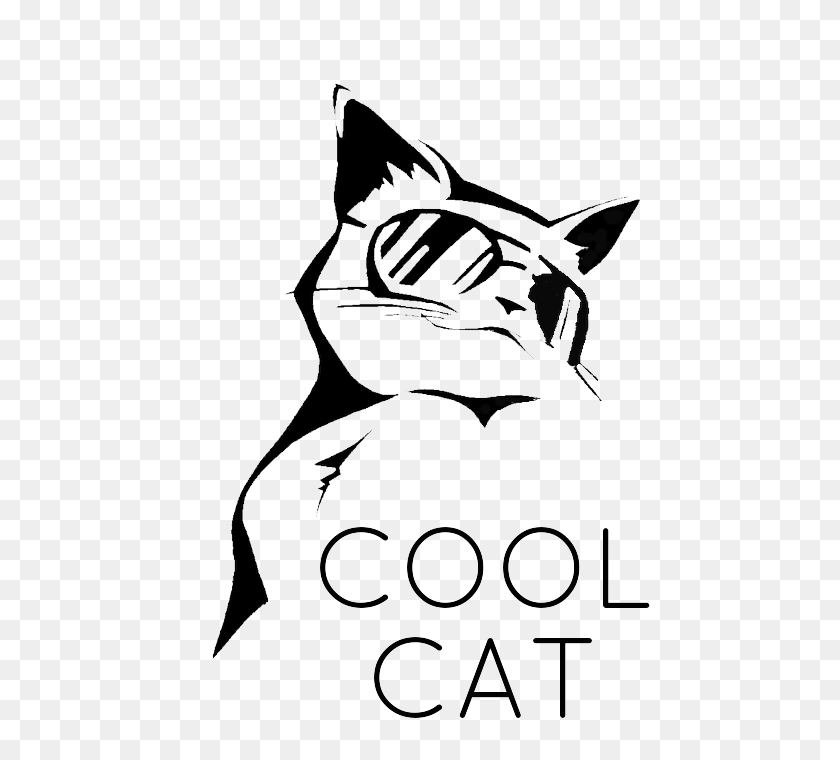
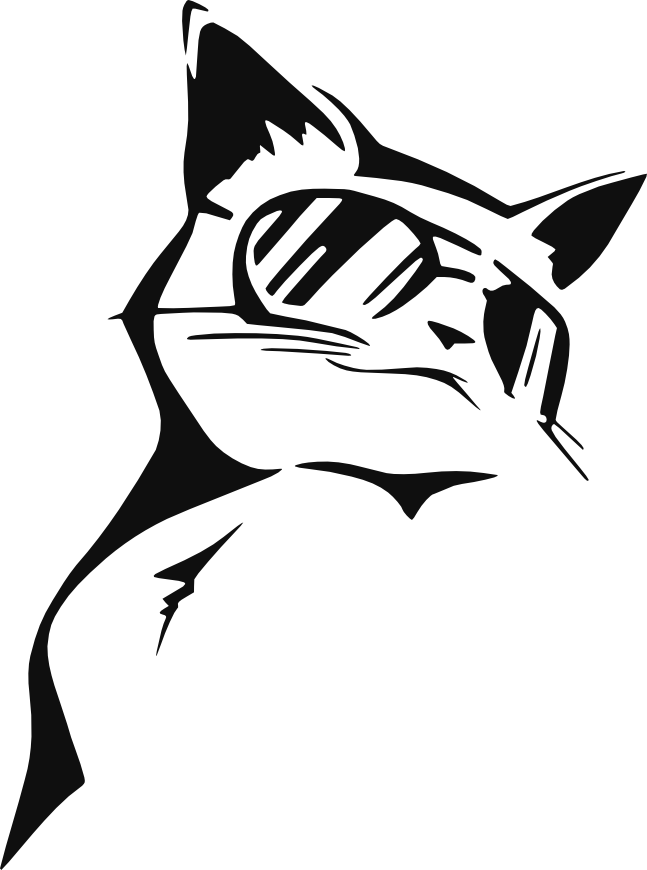
Added Header Image - 1st Column Finalized.

diff --git a/index.html b/index.html
@@ -24,7 +24,7 @@
 				<span class="Button"><b>Join the Cat</b></span>
 			</div>
 			<div class="header-right">
-				<img>Filler Image</img>
+				<img src="coolcat.png"></img>
 			</div>
 
 		</div>

diff --git a/styles.css b/styles.css
@@ -89,6 +89,15 @@ body {
 .header-right {
 	display: flex;
 	flex: 1;
+	max-height: 350px;
+	justify-content: center;
+}
+
+
+img {
+	max-width: 100%;
+	max-height: 100%;
+
 }
 
 .column2 {
